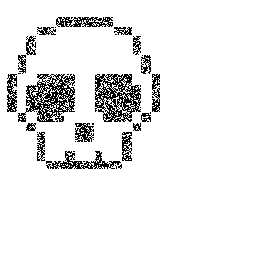
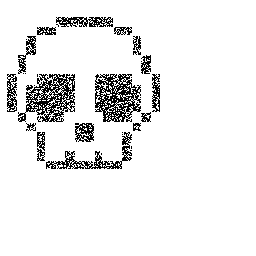
actualizacion

diff --git a/recreador-imagen.js b/recreador-imagen.js
@@ -8,7 +8,7 @@ const imagePath1 = 'public/calavera.jpeg';       //imagen del usuario
 const imagePath = 'public/imagen_final.png';     //base de la imagen, imagen blanca para escribir
 
 //Variables para el Algoritmo Genético
-const maxGeneraciones = 10; //cantidad de generaciones
+const maxGeneraciones = 20; //cantidad de generaciones
 const tasaMutacion = 0.2;    //20% de los genes se mutarán
 const tasaCombinacion = 0.3;  //cantidad de combinados
 const tasaSeleccion = 0.4;  //cantidad de hijos que pasan a la otra generacion
@@ -135,10 +135,13 @@ function best(arrayObjetivo, padre, madre, hijo) {
   let similitudesHijo = contarSimilitudes(arrayObjetivo, hijo);
 
   if (similitudesPadre >= similitudesMadre && similitudesPadre >= similitudesHijo) {
+    console.log("padre")
     return padre;
   } else if (similitudesMadre >= similitudesPadre && similitudesMadre >= similitudesHijo) {
+    console.log("madre")
     return madre;
   } else {
+    console.log("hijo")
     return hijo;
   }
 }
@@ -380,19 +383,21 @@ async function runGeneticAlgorithm() {
     hijosDeCombinacion = [];
 
     let mejorFitness = 0
+    let hijo1 = []
     for (let i = 0; i < generacion.length; i++) {
       fitnessPorHijo = contarSimilitudes(puntosNegros, generacion[i]);
       if (fitnessPorHijo > mejorFitness) {
         mejorFitness = fitnessPorHijo;
-        hijo = generacion[i];
+        hijo1 = generacion[i];
       }
     }
     mejorFitnessPorGen.push(mejorFitness);
 
-    padre = best(puntosNegros, padre, madre, hijo)
-    console.log(padre)
+    padre = best(puntosNegros, padre, madre, hijo1)
 
     puntosNegrosFinal = agregaPuntosNegros(puntosNegros, padre);
+
+
 
     // imprime las similitudes que tenga la imagen del usuario y la imagen final
     console.log("Fitness de la imagen en el proceso: ",findCommonElements(image1, puntosNegrosFinal, width, height))
